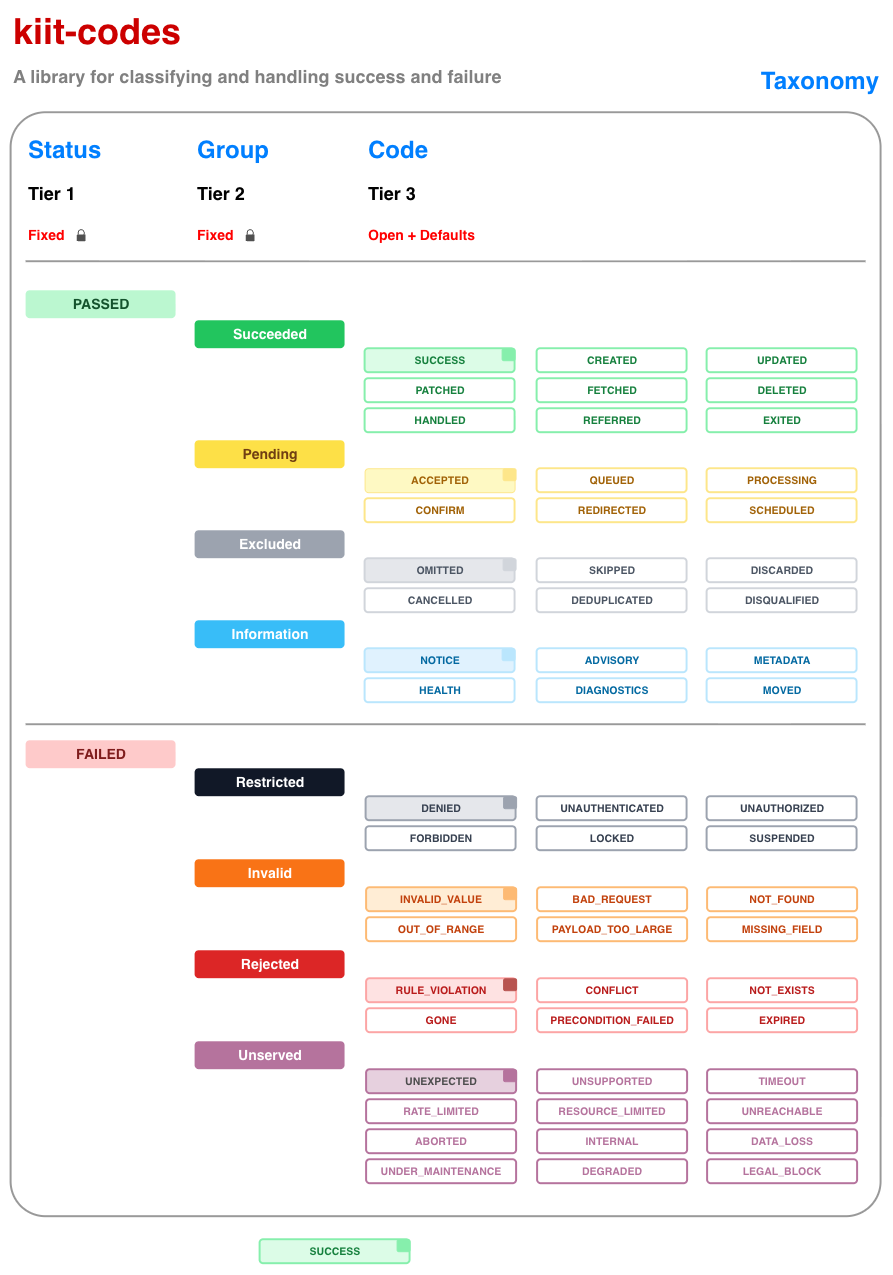
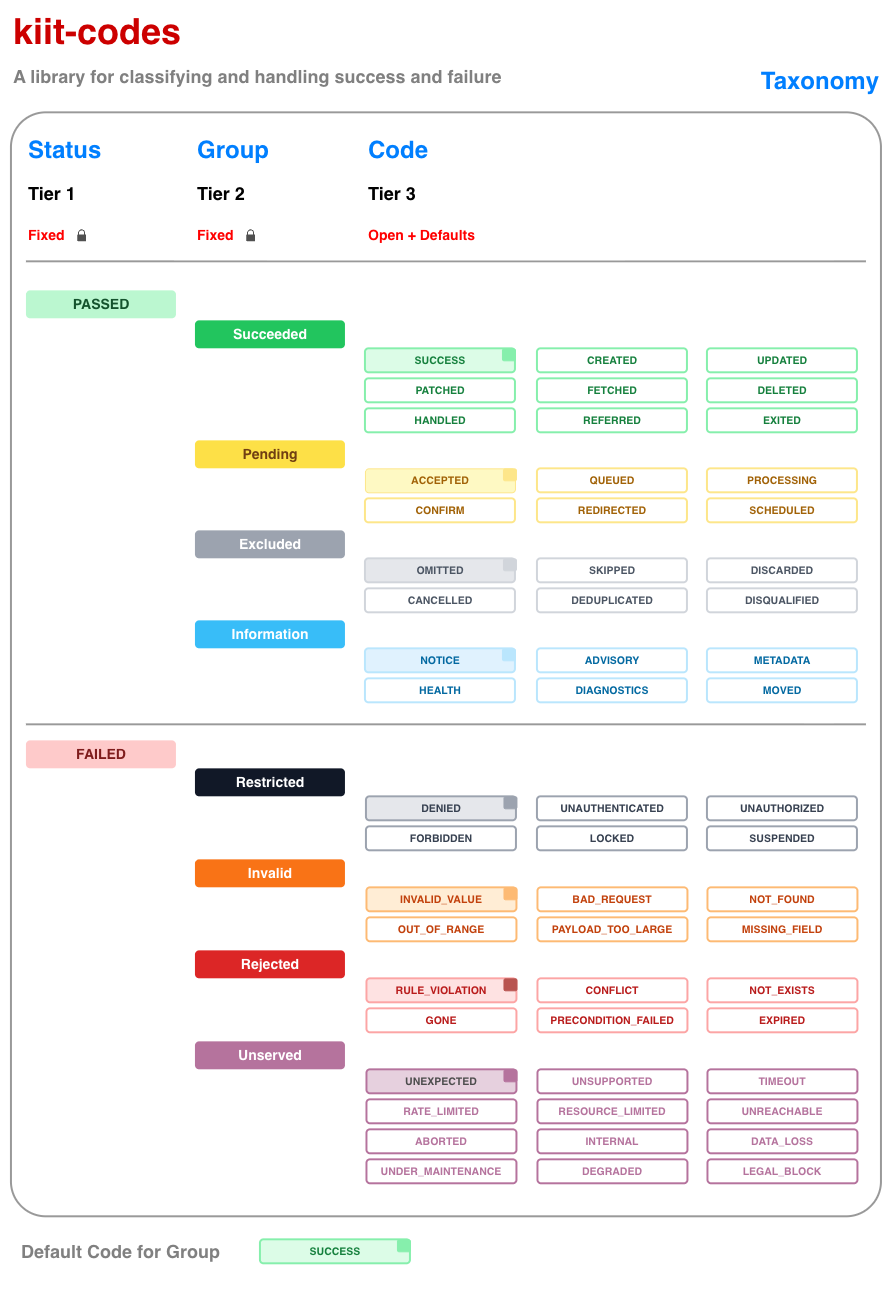
docs: Updated comments and simplified them

diff --git a/kiit-codes/src/commonMain/kotlin/kiit/codes/Codes.kt b/kiit-codes/src/commonMain/kotlin/kiit/codes/Codes.kt
@@ -22,27 +22,25 @@ import kotlin.jvm.JvmStatic
 /**
  * Built-in registry of standard [Status] codes covering common operation outcomes.
  *
- * Using this is optional — they're provided as sensible defaults and for kiit-result builder
- * methods. Custom domain codes can be created by constructing any [Passed] or [Failed] subtype
- * directly; only the four categories under each are fixed/closed (see [Status]). Every entry in
- * this registry has [Status.origin] == [StatusConstants.KIIT].
- *
- * [Codes] itself declares no constants — each one lives on its own type's companion object (e.g.
- * [Succeeded.CREATED], [Restricted.DENIED]) so IDE autocomplete stays scoped per category. This
- * object is purely the aggregate list and reverse lookup over those instances; see [Passed] and
- * [Failed] for where the actual values are declared.
- *
- * Uniqueness of every entry's [Status.id] is enforced at object-init time — a collision fails
- * loudly the first time [Codes] is touched, rather than silently producing a wrong lookup later.
- * [Status.id] is scoped to `origin.name`, not `name` alone, so a consumer's own custom codes
- * (with their own [Status.origin]) can never collide with a built-in one.
- *
- * Not `@JsExport`ed directly — plain Kotlin `object`s can't get clean static-style member access
- * in Kotlin/JS (only a class's companion object can, via `@JsStatic`, confirmed by the compiler).
- * [codesAll] and [codesStatusFor] are thin top-level proxy functions for JS/TS callers instead.
+ * A few things worth knowing about how this registry works:
+ * 1. Using it is optional, these are just sensible defaults for kiit-result's builder methods.
+ *    Custom codes can be created by constructing any [Passed] or [Failed] subtype directly, only
+ *    the four categories under each are fixed and closed, see [Status]. Every entry here has
+ *    [Status.origin] == [StatusConstants.KIIT].
+ * 2. [Codes] itself declares no constants. Each one lives on its own type's companion object
+ *    (e.g. [Succeeded.CREATED], [Restricted.DENIED]) so IDE autocomplete stays scoped per
+ *    category. This object is just the aggregate list and reverse lookup over those instances,
+ *    see [Passed] and [Failed] for where the actual values live.
+ * 3. Uniqueness of every entry's [Status.id] is enforced at object init time. A collision fails
+ *    loudly the first time [Codes] is touched, instead of silently producing a wrong lookup
+ *    later. [Status.id] is scoped to `origin.name`, not `name` alone, so a consumer's own custom
+ *    codes can never collide with a built-in one, as long as they set their own [Status.origin].
+ * 4. Not `@JsExport`ed directly: plain Kotlin `object`s can't get clean static-style member
+ *    access in Kotlin/JS, only a class's companion object can, via `@JsStatic`. [codesAll] and
+ *    [codesStatusFor] are thin top-level proxy functions for JS/TS callers instead.
  */
 object Codes {
-    /** All built-in codes. Used for reverse lookups — see [CodesToHttp], [CompositeLookup]. */
+    /** All built-in codes. Used for reverse lookups, see [CodesToHttp], [CompositeLookup]. */
     @JvmField
     val all: List<Status> =
         listOf(
@@ -79,21 +77,22 @@ object Codes {
     fun statusFor(origin: String, name: String): Status? = byId["$origin.$name"]
 }
 
-/** JS/TS-reachable proxy for [Codes.all] — see [Codes]'s KDoc for why this exists. */
+/** JS/TS-reachable proxy for [Codes.all], see [Codes]'s KDoc for why this exists. */
 @JsExport
 fun codesAll(): List<Status> = Codes.all
 
-/** JS/TS-reachable proxy for [Codes.statusFor] — see [Codes]'s KDoc for why this exists. */
+/** JS/TS-reachable proxy for [Codes.statusFor], see [Codes]'s KDoc for why this exists. */
 @JsExport
 fun codesStatusFor(origin: String, name: String): Status? = Codes.statusFor(origin, name)
 
 /**
  * Bidirectional conversion between a [Status] and a target protocol's status code (e.g. HTTP).
  *
- * Implementations should be exhaustive over [Status]'s categories ([Passed]/[Failed] subtypes),
- * typically via a `when` with no `else` branch, so a newly added category is caught at compile
- * time. Individual codes within a category do not need an exhaustive mapping — they can be
- * handled via a small overrides table layered on top of the category default (see [CodesToHttp]).
+ * 1. Implementations should be exhaustive over [Status]'s categories ([Passed]/[Failed]
+ *    subtypes), typically via a `when` with no `else` branch, so a newly added category is
+ *    caught at compile time.
+ * 2. Individual codes within a category don't need an exhaustive mapping. They can be handled
+ *    via a small overrides table layered on top of the category default, see [CodesToHttp].
  */
 @JsExport
 interface CodeLookup {
@@ -102,7 +101,7 @@ interface CodeLookup {
 
     /**
      * Converts a target protocol [code] to a matching [Status], or null if there is no match.
-     * The forward direction is typically many-to-one, so this is inherently lossy — it returns
+     * The forward direction is typically many-to-one, so this is inherently lossy. It returns
      * *a* status that resolves to [code], not necessarily the specific one a caller originally
      * had in hand.
      */
@@ -116,11 +115,10 @@ interface CodeLookup {
  *   Succeeded / Excluded / Information -> 200      Pending -> 202
  *   Restricted -> 401  Invalid -> 400   Rejected -> 409        Unserved -> 503
  *
- * Individual codes can differ from their category's default via [overrides] (e.g. CREATED -> 201,
- * NOT_FOUND -> 404). [toStatus] is derived from [toCode] and is lossy — see its own doc.
- *
- * Clients needing additional/custom codes should compose with [CompositeLookup] rather than
- * subclassing this type directly — see [CompositeLookup] for why.
+ * 1. Individual codes can differ from their category's default via [overrides] (e.g. CREATED ->
+ *    201, NOT_FOUND -> 404). [toStatus] is derived from [toCode] and is lossy, see its own doc.
+ * 2. Clients needing additional or custom codes should compose with [CompositeLookup] rather
+ *    than subclassing this type directly, see [CompositeLookup] for why.
  */
 @JsExport
 open class CodesToHttp
@@ -143,10 +141,13 @@ open class CodesToHttp
         }
 
         /**
-         * Reverse lookup, derived from [toCode] so it can't drift out of sync with a custom
-         * [overrides] map. Lossy by nature (many statuses can share one code); ties are broken
-         * deterministically via [CANONICAL_PREFERENCE] rather than [Codes.all]'s declaration order.
-         * Only finds statuses registered in [Codes] — see [CompositeLookup] for custom ones.
+         * Reverse lookup, derived from [toCode] so it can't get out of sync with a custom
+         * [overrides] map.
+         *
+         * 1. Lossy by nature since many statuses can share one code.
+         * 2. Ties break deterministically via [CANONICAL_PREFERENCE] rather than [Codes.all]'s
+         *    plain declaration order.
+         * 3. Only finds statuses registered in [Codes], see [CompositeLookup] for custom ones.
          */
         override fun toStatus(code: Int): Status? =
             CANONICAL_PREFERENCE.firstOrNull { toCode(it) == code }
@@ -164,39 +165,38 @@ open class CodesToHttp
                     Invalid.NOT_FOUND.id to 404,
                     Rejected.NOT_EXISTS.id to 404,
                     Restricted.FORBIDDEN.id to 403,
-                    // closer to Forbidden than Unauthenticated — the caller is known
+                    // closer to Forbidden than Unauthenticated, the caller is known
                     Restricted.SUSPENDED.id to 403,
                     Restricted.LOCKED.id to 423,
                     Rejected.EXPIRED.id to 410,
                     Rejected.GONE.id to 410,
-                    // CONFLICT needs no override — 409 is Rejected's own category default now
+                    // CONFLICT needs no override, 409 is already Rejected's own category default
                     Invalid.PAYLOAD_TOO_LARGE.id to 413,
                     // HTTP has no separate "unsupported" code
                     Unserved.UNSUPPORTED.id to 501,
                     // deadline exceeded waiting on something else, not a slow client (408)
                     Unserved.TIMEOUT.id to 504,
                     Unserved.RATE_LIMITED.id to 429,
-                    // same axis as RATE_LIMITED — HTTP doesn't distinguish the two
+                    // same axis as RATE_LIMITED, HTTP doesn't distinguish the two
                     Unserved.RESOURCE_LIMITED.id to 429,
                     Unserved.UNEXPECTED.id to 500,
                     Unserved.LEGAL_BLOCK.id to 451,
                 )
 
             /**
-             * One canonical winner per HTTP code that more than one built-in [Status] can resolve
-             * to via [toCode] (under [DEFAULT_OVERRIDES] or a category default) — see [toStatus].
-             *
-             * `422 Unprocessable Entity` has no dedicated [Status] mapping — the code that previously
-             * held it (`INVALID_ENTITY`) was removed from the registry; [toStatus] returns null for
-             * 422, and anything converting [Invalid.INVALID_VALUE] to HTTP falls through to 400.
+             * 1. One canonical winner per HTTP code that more than one built-in [Status] can resolve to
+             *    via [toCode], under [DEFAULT_OVERRIDES] or a category default. See [toStatus].
+             * 2. `422 Unprocessable Entity` has no dedicated [Status] mapping. The code that previously held
+             *    it, `INVALID_ENTITY`, was removed from the registry. [toStatus] returns null for 422, and
+             *    anything converting [Invalid.INVALID_VALUE] to HTTP falls through to 400.
              */
             private val CANONICAL_PREFERENCE: List<Status> =
                 listOf(
                     Succeeded.SUCCESS, Succeeded.CREATED, Succeeded.HANDLED, Pending.PROCESSING,
                     Restricted.UNAUTHENTICATED, Restricted.FORBIDDEN,
                     Invalid.INVALID_VALUE, Invalid.NOT_FOUND, Rejected.GONE,
-                    // RULE_VIOLATION and PRECONDITION_FAILED also fall through to 409, Rejected's
-                    // own category default — CONFLICT wins as the most literal match for the concept
+                    // RULE_VIOLATION and PRECONDITION_FAILED also fall through to 409, Rejected's own
+                    // category default. CONFLICT wins since it's the most literal match for the concept.
                     Rejected.CONFLICT, Unserved.TIMEOUT, Unserved.RATE_LIMITED,
                     Unserved.UNDER_MAINTENANCE,
                 )
@@ -209,7 +209,7 @@ open class CodesToHttp
  * Category -> gRPC default: Passed (all) -> 0 (OK)   Restricted -> 7 (PERMISSION_DENIED)
  *   Invalid -> 3 (INVALID_ARGUMENT)   Rejected -> 9 (FAILED_PRECONDITION)   Unserved -> 13 (INTERNAL)
  *
- * gRPC's `ABORTED` (10) maps to [Unserved.ABORTED] — previously an honest `null` gap, now closed.
+ * gRPC's `ABORTED` (10) maps to [Unserved.ABORTED], previously an honest `null` gap, now closed.
  */
 @JsExport
 open class CodesToGrpc
@@ -232,8 +232,8 @@ open class CodesToGrpc
         }
 
         /**
-         * Reverse lookup, derived from [toCode] so it can't drift out of sync with a custom
-         * [overrides] map. Ties broken deterministically via [CANONICAL_PREFERENCE], same approach
+         * Reverse lookup, derived from [toCode] so it can't get out of sync with a custom
+         * [overrides] map. Ties break deterministically via [CANONICAL_PREFERENCE], same approach
          * as [CodesToHttp.toStatus].
          */
         override fun toStatus(code: Int): Status? =
@@ -250,11 +250,11 @@ open class CodesToGrpc
                     Invalid.NOT_FOUND.id to 5,
                     Invalid.OUT_OF_RANGE.id to 11,
                     Restricted.DENIED.id to 7,
-                    // ALREADY_EXISTS — was previously falling through to Rejected's category default
+                    // ALREADY_EXISTS, was previously falling through to Rejected's category default
                     Rejected.CONFLICT.id to 6,
                     Rejected.PRECONDITION_FAILED.id to 9,
-                    // takes over gRPC's UNIMPLEMENTED slot now that UNIMPLEMENTED and UNSUPPORTED have
-                    // merged into one Status code — confirmed, not just an inference
+                    // takes over gRPC's UNIMPLEMENTED slot now that UNIMPLEMENTED and UNSUPPORTED merged
+                    // into one Status code
                     Unserved.UNSUPPORTED.id to 12,
                     Unserved.UNREACHABLE.id to 14,
                     Unserved.TIMEOUT.id to 4,
@@ -264,15 +264,15 @@ open class CodesToGrpc
                     Unserved.UNEXPECTED.id to 2,
                     Unserved.INTERNAL.id to 13,
                     Unserved.DATA_LOSS.id to 15,
-                    // RESOURCE_EXHAUSTED — widely used real-world convention, not an official mapping
+                    // RESOURCE_EXHAUSTED, a widely used real-world convention, not an official mapping
                     Invalid.PAYLOAD_TOO_LARGE.id to 8,
                     // exact match, closes the previously honest null gap at 10
                     Unserved.ABORTED.id to 10,
-                    // DEGRADED and LEGAL_BLOCK have no closer gRPC equivalent — fall through to
-                    // Unserved's own category default (13, INTERNAL)
+                    // DEGRADED and LEGAL_BLOCK have no closer gRPC equivalent, so they fall through
+                    // to Unserved's own category default (13, INTERNAL)
                 )
 
-            /** One canonical winner per gRPC code with more than one resolving [Status] — see [toStatus]. */
+            /** One canonical winner per gRPC code with more than one resolving [Status], see [toStatus]. */
             private val CANONICAL_PREFERENCE: List<Status> =
                 listOf(
                     Succeeded.SUCCESS,
@@ -287,15 +287,17 @@ open class CodesToGrpc
 
 /**
  * Composes a [base] [CodeLookup] with client-supplied [extensions], without modifying or
- * subclassing the base implementation (composition over inheritance). [extensions] take
- * precedence over [base] for both directions.
+ * subclassing the base implementation. [extensions] take precedence over [base] in both
+ * directions.
  *
- * [extensions] is keyed by the actual [Status] instance (not [Status.id]) so that [toStatus] can
- * hand back the specific custom instance for statuses that aren't part of the [Codes.all]
- * registry — there's no other place to recover it from. [toCode]'s forward lookup deliberately
- * doesn't rely on [Map]'s built-in `equals`/`hashCode`-based `[]` access, though: [Status] is a
- * data class, so that would compare every field including [Status.message], and a status sharing
- * the same [Status.id] but a slightly different message would silently miss the override.
+ * A couple of details worth knowing:
+ * 1. [extensions] is keyed by the actual [Status] instance, not [Status.id], so [toStatus] can
+ *    hand back the specific custom instance for statuses outside the [Codes.all] registry.
+ *    There's no other place to recover it from.
+ * 2. [toCode]'s forward lookup doesn't rely on [Map]'s built-in `equals`/`hashCode`-based `[]`
+ *    access. [Status] is a data class, so that would compare every field including
+ *    [Status.message], and a status sharing the same [Status.id] but a different message would
+ *    silently miss the override.
  *
  * ```kotlin
  * val MY_DOMAIN_CODE = Failed.Rejected("PAYMENT_DECLINED", "Payment declined")

diff --git a/kiit-codes/src/commonMain/kotlin/kiit/codes/Checked.kt b/kiit-codes/src/commonMain/kotlin/kiit/codes/Checked.kt
@@ -25,17 +25,15 @@ import kotlin.jvm.JvmStatic
 
 /**
  * Non-monadic result of a validation-style check that reports every problem found rather than
- * short-circuiting on the first one — a form/request with three invalid fields should report all
- * three, not just the first. Deliberately has no `map`/`flatMap`; compose multiple checks with
- * [collect], not by chaining.
+ * short-circuiting on the first one.
  *
- * Construction is only through [success]/[failure] so [status] and [errors] can never drift out
- * of sync with each other: a passing [Checked] always has an empty [errors] list, a failing one
- * always has at least one entry.
- *
- * Implements [HasErrors]. Deliberately does not implement an equivalent "has status" interface —
- * [status] is typed [Status], not [Failed], since one [Checked] instance can represent either
- * outcome.
+ * 1. A form with three invalid fields should report all three, not just the first. Deliberately
+ *    has no `map`/`flatMap`. Compose multiple checks with [collect] instead of chaining.
+ * 2. Construction is only through [success]/[failure] so [status] and [errors] can never be out
+ *    of sync: a passing [Checked] always has an empty [errors] list, a failing one always has
+ *    at least one entry in it.
+ * 3. Implements [HasErrors]. Deliberately skips an equivalent "has status" interface: [status]
+ *    is typed [Status], not [Failed], since one [Checked] instance can represent either outcome.
  */
 @JsExport
 class Checked private constructor(val status: Status, override val errors: List<Err>) : HasErrors {
@@ -59,21 +57,20 @@ class Checked private constructor(val status: Status, override val errors: List<
 }
 
 /**
- * [collect] over varargs instead of a [List] — the JS/TS-friendlier overload: a Kotlin `vararg`
+ * [collect] over varargs instead of a [List]: the JS/TS-friendlier overload. A Kotlin `vararg`
  * exports as a plain native JS `Array` parameter (`collect([a, b, c])`), not the opaque
- * `kotlin.collections.KtList` wrapper the [List] overload below renders as (confirmed against the
- * actual generated `.d.ts` — it's a real `Array<Checked>` parameter, not a JS rest/spread
- * parameter, despite `vararg` being the Kotlin-side spelling).
+ * `kotlin.collections.KtList` wrapper the [List] overload below uses. It's a real `Array<Checked>`
+ * parameter, not a JS rest/spread parameter, even though `vararg` is the Kotlin-side spelling.
  */
 @JsExport
 fun collect(vararg checks: Checked): Checked = collect(checks.toList())
 
 /**
- * Collects multiple [checks] into one: passes only if every one of them passed, otherwise fails
- * with [Invalid.INVALID_VALUE] and every error from every failing entry pooled together, in order.
- *
- * `@JsName` disambiguates from the `vararg` overload above — JS has no function overloading, so
- * two top-level `@JsExport` functions named `collect` can't both keep that exact name in JS.
+ * 1. Collects multiple [checks] into one: passes only if every one of them passed, otherwise
+ *    fails with [Failed.Invalid.INVALID_VALUE] and every error from every failing entry pooled
+ *    together, in the order the checks were given.
+ * 2. `@JsName` disambiguates this from the `vararg` overload above. JS has no function overloading,
+ *    so two top-level `@JsExport` functions named `collect` can't both keep that exact name.
  */
 @JsExport
 @JsName("collectList")

diff --git a/kiit-codes/src/commonMain/kotlin/kiit/codes/Err.kt b/kiit-codes/src/commonMain/kotlin/kiit/codes/Err.kt
@@ -44,11 +44,7 @@ sealed class Err {
     abstract val cause: Throwable?
     abstract val ref: Any?
 
-    /**
-     * Different implementations for Error.
-     *
-     * Default Error implementation to represent an error with message and optional throwable
-     */
+    /** Default [Err] implementation: a message with an optional cause. */
     data class ErrorInfo
         @JvmOverloads
         constructor(
@@ -58,9 +54,9 @@ sealed class Err {
         ) : Err()
 
     /**
-     * Error implementation to represent an error on a specific field
-     * @param field: Name of the field causing the error e.g. "email"
-     * @param value: Value of the field causing the error e.g. "some_invalid_value"
+     * [Err] implementation for an error on a specific field.
+     * @param field: Name of the field causing the error, e.g. "email"
+     * @param value: Value of the field causing the error, e.g. "some_invalid_value"
      */
     data class ErrorField
         @JvmOverloads
@@ -73,8 +69,8 @@ sealed class Err {
         ) : Err()
 
     /**
-     * Error implementation to store list of errors
-     * @param errors: List of all the errors
+     * [Err] implementation that wraps a list of other errors.
+     * @param errors: The errors being wrapped
      */
     data class ErrorList
         @JvmOverloads
@@ -86,7 +82,7 @@ sealed class Err {
         ) : Err()
 
     /**
-     * Provides easy ways to build the Err type from various sources such as strings, exceptions, field errors
+     * Convenience builders for [Err] from common sources: strings, exceptions, field errors.
      */
     companion object {
         @JvmStatic
@@ -96,9 +92,9 @@ sealed class Err {
             return ErrorInfo(msg, ex)
         }
 
-        // @JsName disambiguates from the of(msg, ex) overload above — JS has no function
-        // overloading, and @JsStatic requires a stable, unmangled name, so two same-named
-        // companion members can't both be reachable from JS without one being renamed.
+        // @JsName disambiguates this from the of(msg, ex) overload above. JS has no function
+        // overloading, and @JsStatic needs a stable, unmangled name, so two same-named companion
+        // members can't both reach JS unless one gets renamed.
         @JvmStatic
         @JsStatic
         @JsName("ofStatus")
@@ -114,12 +110,11 @@ sealed class Err {
         }
 
         /**
-         * Builds an [Err] for a [field] with a specific per-occurrence [msg], without a [value].
-         * Use this instead of [on] when the value itself could be sensitive (e.g. a password or
-         * token) and shouldn't be carried on the error.
-         *
-         * `@JsName` disambiguates from the `on(field, value, msg, ex)` overload above — same
-         * reason as `of`/`ofStatus`.
+         * 1. Builds an [Err] for a [field] with a specific per-occurrence [msg], without a
+         *    [value]. Use this instead of [on] when the value itself could be sensitive
+         *    (e.g. a password or token) and shouldn't be carried on the error.
+         * 2. `@JsName` disambiguates this from the `on(field, value, msg, ex)` overload above, for
+         *    the same reason as the `of`/`ofStatus` pair above.
          */
         @JvmStatic
         @JsStatic
